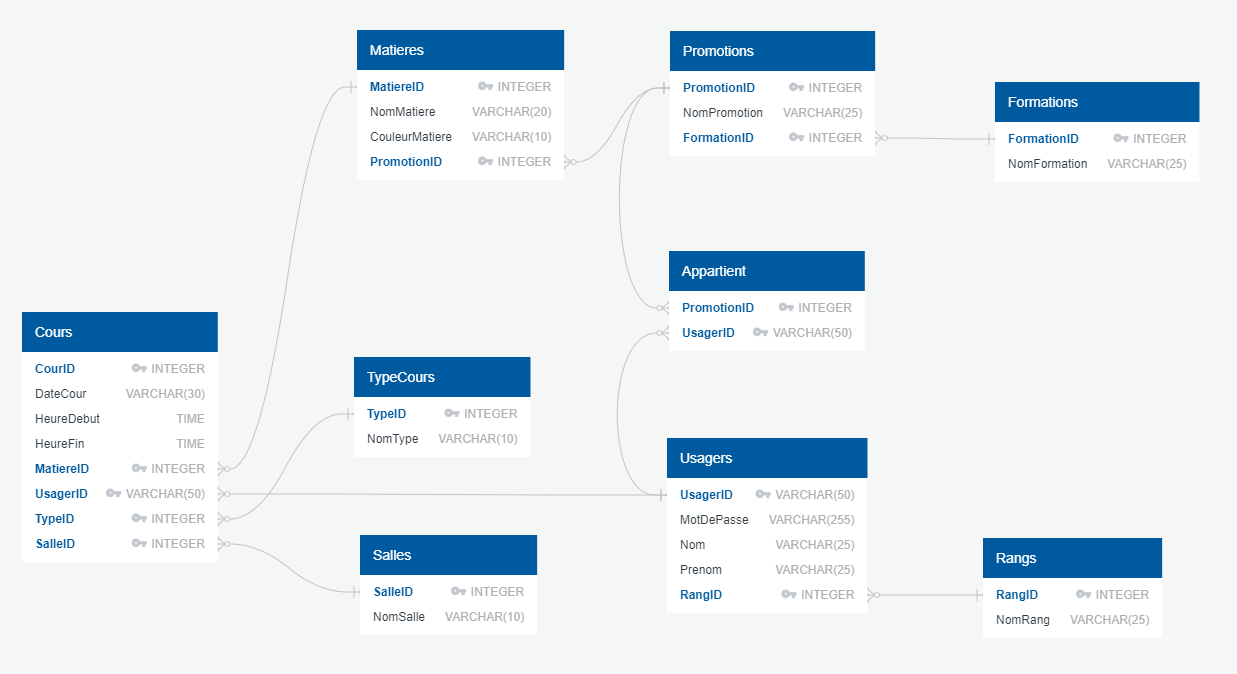
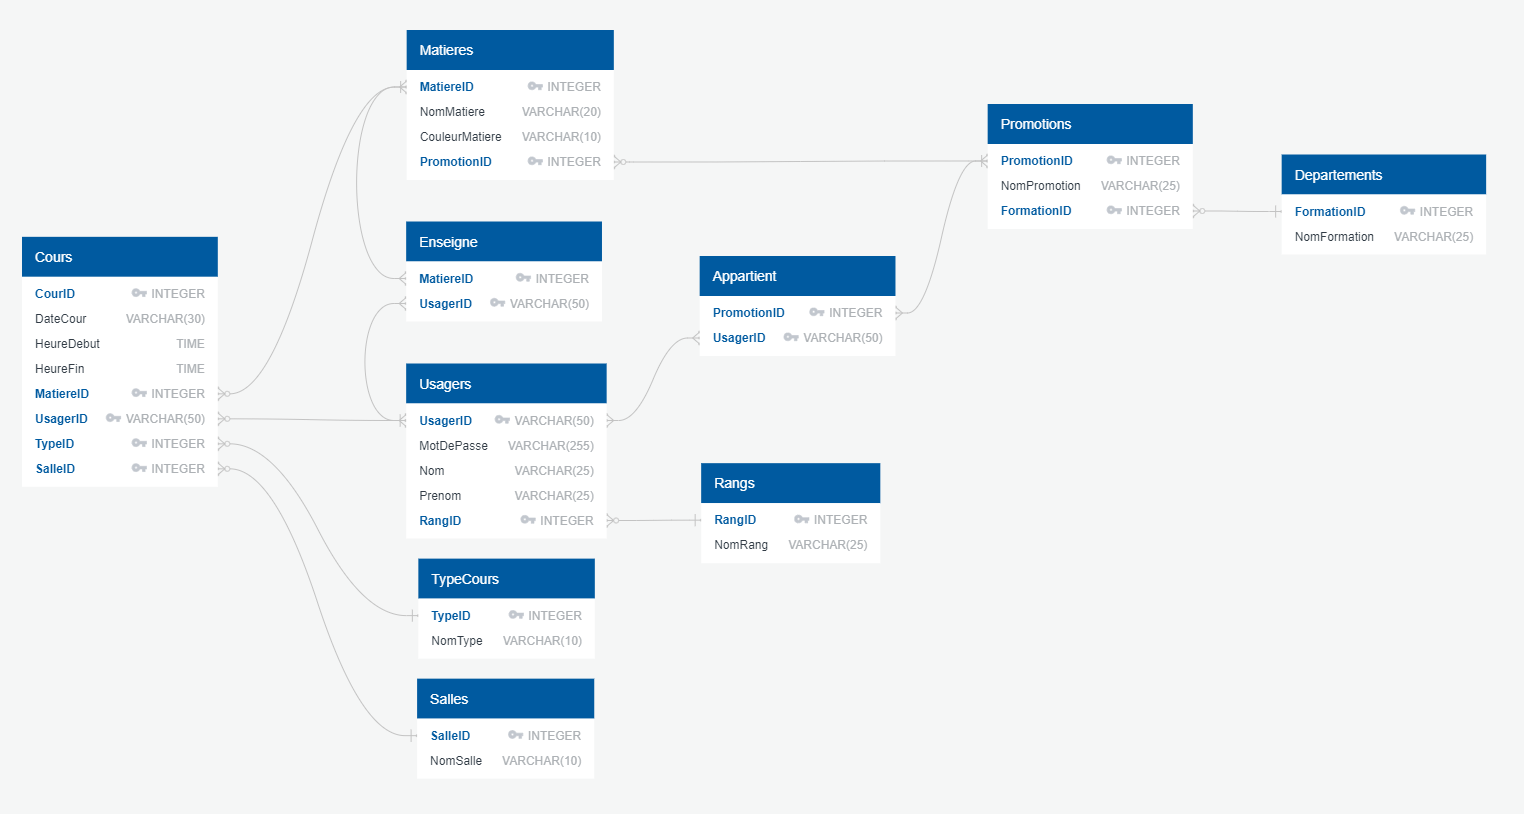
update db & gestion

diff --git a/gestion.php b/gestion.php
@@ -93,8 +93,10 @@ if(isset($_POST['add_cours'])) {
                                 <select name="matiere" id="" class="form-control" id="matiere">
                                     <?php
                                     $option = '';
-                                    if($_SESSION['rang'] == 2)  $option = 'WHERE UsagerID = "'.$_SESSION['id'].'"';
-                                    $sMatieres = $bdd->query('SELECT DISTINCT m.* FROM Cours c INNER JOIN Matieres m USING(MatiereID) ' .  $option . '');
+                                    if($_SESSION['rang'] == 2) {
+                                        $option = 'INNER JOIN Enseigne ON Matieres.MatiereID = Enseigne.MatiereID AND UsagerID = "'.$_SESSION['id'].'"';   
+                                    }
+                                    $sMatieres = $bdd->query('SELECT * FROM Matieres '.$option. ' ORDER BY NomMatiere');
                                     while($aMatieres = $sMatieres->fetch()) {
                                         echo '<option value="'.$aMatieres['MatiereID'].'">'.$aMatieres['NomMatiere'].'</option>';
                                     } ?> 
@@ -130,7 +132,7 @@ if(isset($_POST['add_cours'])) {
                             <div class="col-md-6">
                                 <div class="form-group">
                                     <label for="date">Enseignant</label>
-                                    <?php if($_SESSION['rang'] == 2) echo  '<input type="text" name="enseignant" class="form-control" value="' . $_SESSION['prenom']. ' ' .$_SESSION['nom'] .' disabled>';
+                                    <?php if($_SESSION['rang'] == 2) echo  '<input type="text" name="enseignant" class="form-control" value="' . $_SESSION['prenom']. ' ' .$_SESSION['nom'] .'" disabled>';
                                     else {
                                         echo '<select name="enseignant" class="form-control">';
                                         $query = $bdd->query("SELECT * FROM Usagers WHERE RangID==2");
